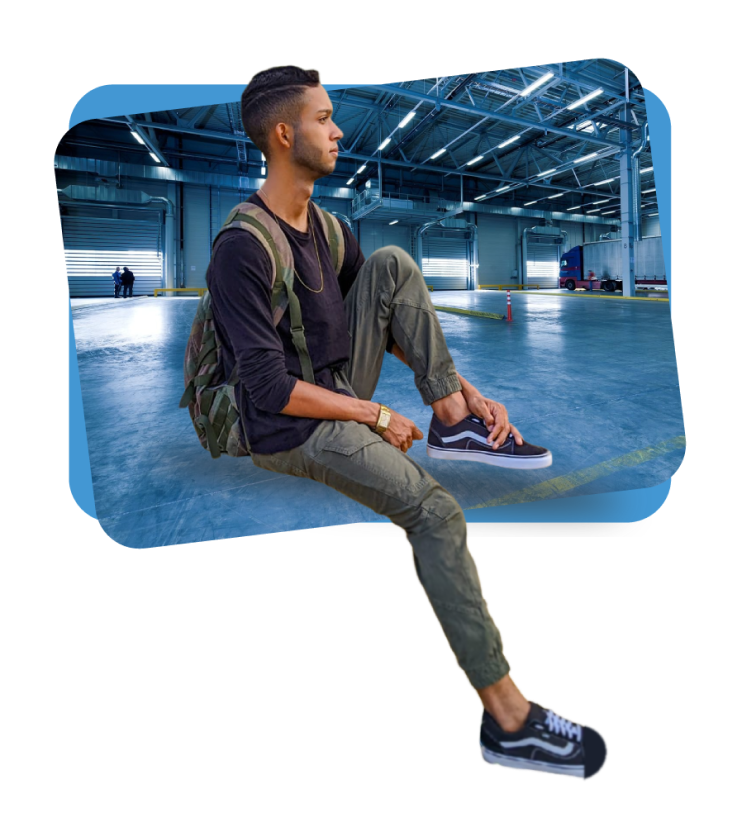
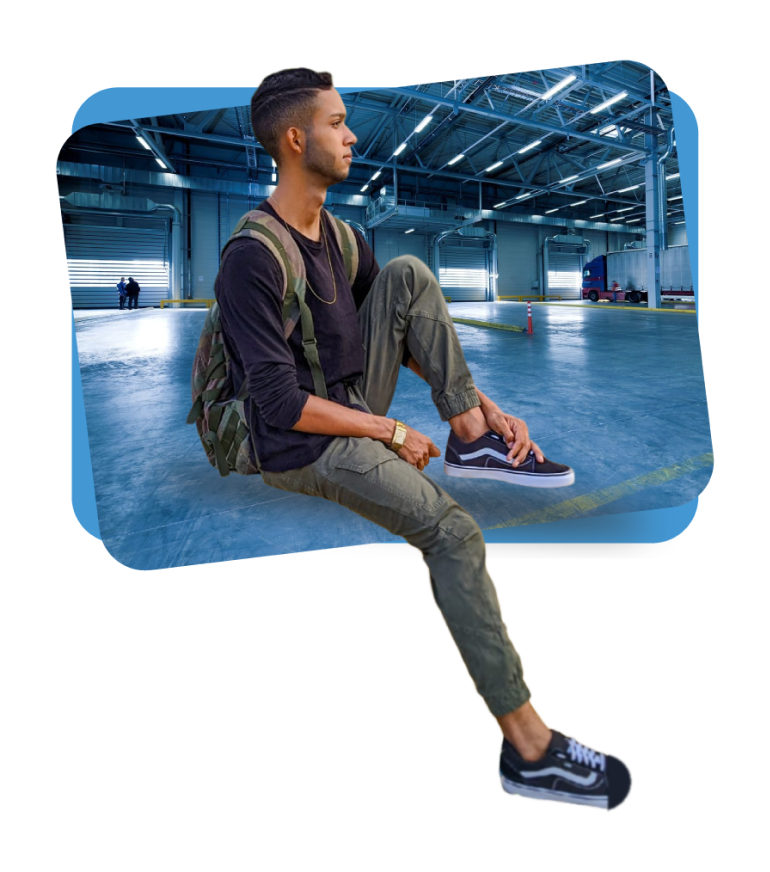
[KewinAbreu] - Page Habilidades

Changed region(s): [[0.0932, 0.2789, 0.2176, 0.3409], [0.777, 0.124, 0.8081, 0.1549], [0.4351, 0.093, 0.4662, 0.124]]

diff --git a/site/src/pages/Home/index.js b/site/src/pages/Home/index.js
@@ -5,14 +5,14 @@ import SobreImage from '../../assets/image2ok.png';
 import GitImage from '../../assets/git.svg';
 
 import { Container,Text0, Text1,Text2,Text3,Text4,ContainerBtn,Btn,
-  TextBtn,Btn2,TextBtn2,ContainerImg,SubCont,ContainerResume,
-   ContainerGeralCards,ContainerSubCards } from './style';
+  Btn2,ContainerImg,SubCont,ContainerResume,
+   ContainerGeralCards,ContainerSubCards,ContainerExperience,
+   ContainerCardExeperience } from './style';
 
 import BottomBar from "../../Componets/BottomBar";
 import Sociais from "../../Componets/Sociais";
 import CardsSobre from "../../Componets/CardSobre";
-
-
+import CardsExperience from "../../Componets/CardExperience";
 
 export default function Home() {
   return (
@@ -25,11 +25,11 @@ export default function Home() {
           
           <ContainerBtn>
             <Btn>
-              <TextBtn>Download CV</TextBtn>
+               Download CV
             </Btn>
 
             <Btn2>
-              <TextBtn2>Vamos Conversar!</TextBtn2>
+               Vamos Conversar!
             </Btn2>
           </ContainerBtn>
 
@@ -51,8 +51,8 @@ export default function Home() {
 
                 <ContainerSubCards>
                   <CardsSobre icon={GitImage} tittle="Desenvolvedor" desc="Fullstack"/>
-                  <CardsSobre icon={GitImage} tittle="Desenvolvedor" desc="Fullstack"/>
-                  <CardsSobre icon={GitImage} tittle="Desenvolvedor" desc="Fullstack"/>
+                  <CardsSobre icon={GitImage} tittle="Expeciência" desc="2+ Anos"/>
+                  <CardsSobre icon={GitImage} tittle="Projetos" desc="+20 Concluídos"/>
                 </ContainerSubCards>
 
                   <Text0>
@@ -64,16 +64,36 @@ export default function Home() {
                   </Text0>
 
                   <Btn2 style={{marginLeft:-5, marginTop:24}}>
-                    <TextBtn2>Vamos Conversar!</TextBtn2>
+                  <Btn2>
+                    Vamos Conversar!
+                  </Btn2>
                   </Btn2>
               </ContainerGeralCards>
          
           </ContainerResume>
+
+          <ContainerExperience>
+             <Text3 style={{marginTop:128, fontSize:18, marginBottom:10}}>Habilidades Que Desenvolvo</Text3>
+             <Text4>Minha Experiência</Text4>
+
+            <ContainerCardExeperience>
+               <CardsExperience 
+                icon={GitImage} tittle="Frontend Development"
+                desc="HTML" icon2={GitImage} desc2="CSS"
+                icon3={GitImage} desc3="Javascript" 
+                icon4={GitImage} desc4="React"/>
+
+                <CardsExperience 
+                icon={GitImage} tittle="Backend Development"
+                desc="HTML" icon2={GitImage} desc2="CSS"
+                icon3={GitImage} desc3="Javascript" 
+                icon4={GitImage} desc4="React"/>
+            </ContainerCardExeperience>
+             
+          </ContainerExperience>
 
               
         </Container>
       </>
   );
 }
-
-

diff --git a/site/src/pages/Home/style.js b/site/src/pages/Home/style.js
@@ -51,13 +51,18 @@ export const Btn = styled.div `
     border-radius:5px;
     justify-content: center;
     align-items: center;
+    margin-right: 10px;
 
-`
-export const TextBtn = styled.h1 `
     font-size: 12px;
     color:#3E82B5;
     font-family: sans-serif;
     font-weight: 300;
+
+    &:hover{
+        background-color: #3E82B5;
+        color:#fff;
+        cursor:pointer;
+    }
 
 `
 
@@ -69,19 +74,22 @@ export const Btn2 = styled.div `
     border-radius:5px;
     justify-content: center;
     align-items: center;
-    margin-left:10px;
 
-`
-export const TextBtn2 = styled.h1 `
     font-size: 12px;
     color:#fff;
     font-family: sans-serif;
     font-weight: 300;
 
+    &:hover{
+        background-color: #87CEEB;
+        color:#fff;
+        cursor:pointer;
+    }
+
 `
 
 export const ContainerImg = styled.div `
-   margin-top: -150px;
+   margin-top: 50px;
    display: flex;
    margin-left: -400px;
 `
@@ -97,8 +105,10 @@ export const SubCont = styled.div `
     flex-direction: column;
 `
 export const ContainerResume = styled.div `
+    width: 100vw;
     display: flex;
     flex-direction: row;
+    justify-content: center;
 `
 export const CardSobre = styled.div `
     display: flex;
@@ -120,6 +130,15 @@ export const ContainerGeralCards = styled.div `
 `
 
 export const ContainerSubCards = styled.div `
+    display: flex;
+    flex-direction: row;
+`
+export const ContainerExperience = styled.div `
+    display: flex;
+    flex-direction: column;
+    align-items: center;
+`
+export const ContainerCardExeperience = styled.div `
     display: flex;
     flex-direction: row;
 `

diff --git a/site/src/Componets/CardExperience/index.js b/site/src/Componets/CardExperience/index.js
@@ -1,0 +1,48 @@
+
+import React,{useState} from "react";
+import { CardSobre, Tittle, Desription,Feature, ContainerFeature } from './style';
+
+
+export default function CardsExperience({icon,icon2,icon3,icon4,
+   tittle, 
+   desc,desc2,desc3,desc4}) {
+  return (
+      <>
+        <CardSobre>
+            <Tittle>{tittle}</Tittle>
+
+            <ContainerFeature>
+              
+              <Desription>
+                <img src={icon} style={{width:25, height:25}}/>
+                <Feature>{desc}</Feature>
+              </Desription>
+
+              <Desription>
+                <img src={icon2} style={{width:25, height:25}}/>
+                <Feature>{desc2}</Feature>
+              </Desription>
+
+            </ContainerFeature>
+
+            <ContainerFeature>
+              
+              <Desription>
+                <img src={icon3} style={{width:25, height:25}}/>
+                <Feature>{desc3}</Feature>
+              </Desription>
+
+              <Desription>
+                <img src={icon4} style={{width:25, height:25}}/>
+                <Feature>{desc4}</Feature>
+              </Desription>
+
+            </ContainerFeature>
+            
+            
+        </CardSobre>
+      </>
+  );
+}
+
+

diff --git a/site/src/Componets/CardExperience/style.js b/site/src/Componets/CardExperience/style.js
@@ -1,0 +1,49 @@
+
+import styled from 'styled-components';
+
+export const CardSobre = styled.div `
+    display: flex;
+    flex-direction: column;
+    align-items: center;
+    /* justify-content: center; */
+
+    width: 466px;
+    height: 266px;
+
+    margin-right: 64px;
+    margin-top: 32px;
+    margin-bottom: 200px;
+
+    border-radius: 20px;
+
+    background-color:#2A2C69;
+`
+
+export const Tittle = styled.h1 `
+    font-size: 16px;
+    color: #3E82B5;
+    font-family: sans-serif;
+    margin-top: 40px;
+
+`
+export const Desription = styled.div `
+  display: flex;
+  flex-direction: row;
+  align-items: center;
+  justify-content: center;
+  margin-top: 40px;
+`
+export const Feature = styled.h1 `
+    font-size: 20px;
+    font-family: -apple-system, BlinkMacSystemFont, 'Segoe UI', Roboto, Oxygen, Ubuntu, Cantarell, 'Open Sans', 'Helvetica Neue', sans-serif;
+    font-weight: 500;
+    color: #fff;
+    margin-left: 10px;
+
+`
+export const ContainerFeature = styled.h1 `
+   display: flex;
+   width: 100%;
+   flex-direction: row;
+   justify-content: space-around;
+`

diff --git a/site/src/globalStyle.js b/site/src/globalStyle.js
@@ -4,14 +4,17 @@ import Bg from './assets/background.jpg';
 
 
 export const GlobalStyle = createGlobalStyle`
- @import url('https://fonts.googleapis.com/css2?family=Roboto:wght@300;400;500&display=swap');
-  * {
+@import url('https://fonts.googleapis.com/css2?family=Roboto:wght@300;400;500&display=swap');
+ 
+* {
     box-sizing: border-box;
     margin: 0;
     padding: 0;
+    font-family: Roboto;
   }
 
   body{
     background-image:url(${Bg});
+    height: auto;
   }
 `

diff --git a/site/src/Componets/BottomBar/index.js b/site/src/Componets/BottomBar/index.js
@@ -1,14 +1,13 @@
 
 import React,{useState} from "react";
-import { Container } from './style';
-
+import './style.css';
 
 export default function BottomBar() {
   return (
       <>
-        <Container>
+        <div className="bottomBar">
             
-        </Container>
+        </div>
       </>
   );
 }

diff --git a/site/src/Componets/BottomBar/style.css b/site/src/Componets/BottomBar/style.css
@@ -1,7 +1,5 @@
-import styled from 'styled-components';
-
-export const Container = styled.div`
-  display: flex;
+.bottombar{
+    display: flex;
   align-items:center;
   flex-direction:column;
 
@@ -16,4 +14,4 @@ export const Container = styled.div`
   margin-bottom: 20px;
 
   border-radius: 50px;
-`
+}

diff --git a/site/src/Componets/Sociais/style.js b/site/src/Componets/Sociais/style.js
@@ -4,6 +4,7 @@ export const Container = styled.div`
   display: flex;
   align-items:center;
   flex-direction:column;
-  margin-top: 500px;
+  position: absolute;
+  top: 700px;
  
 `
